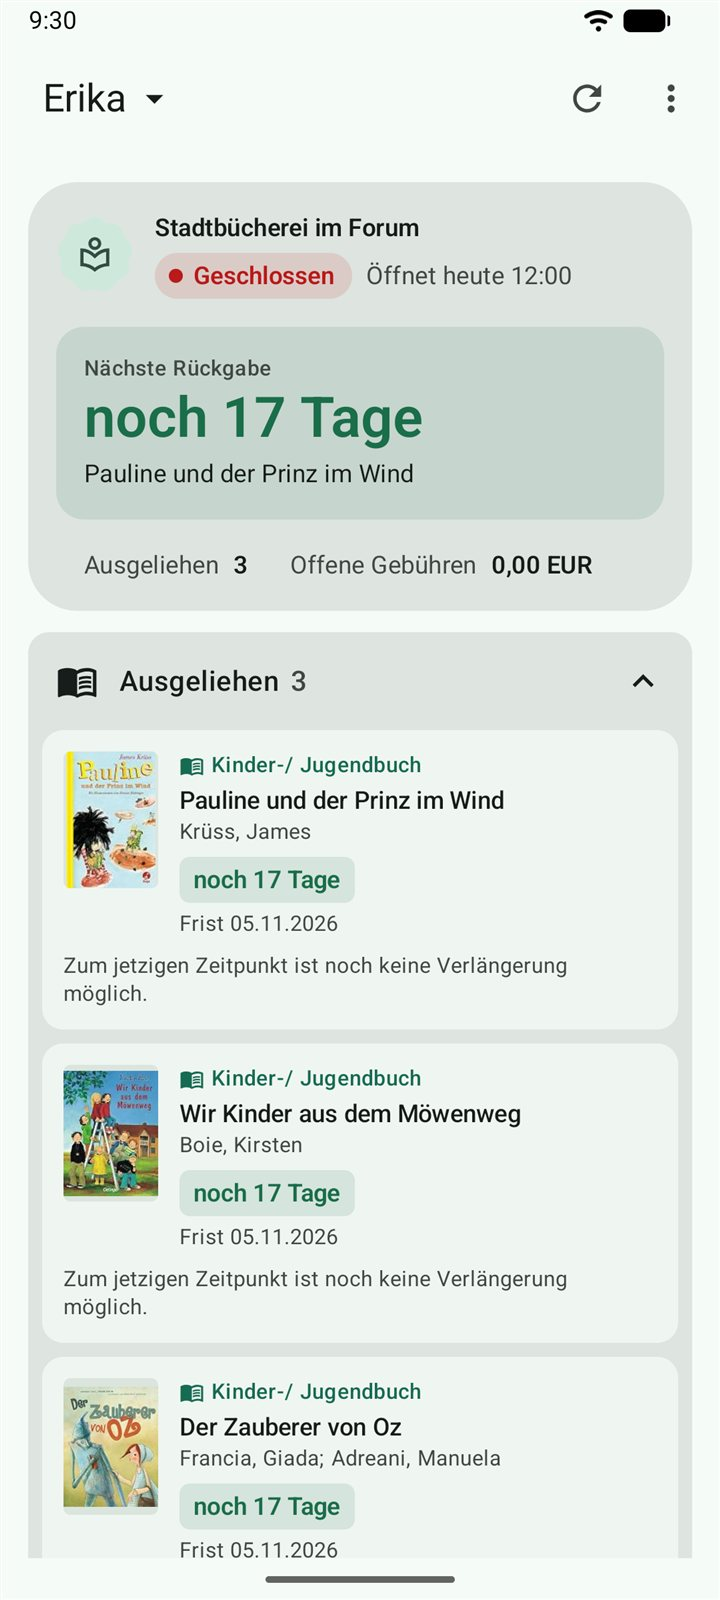
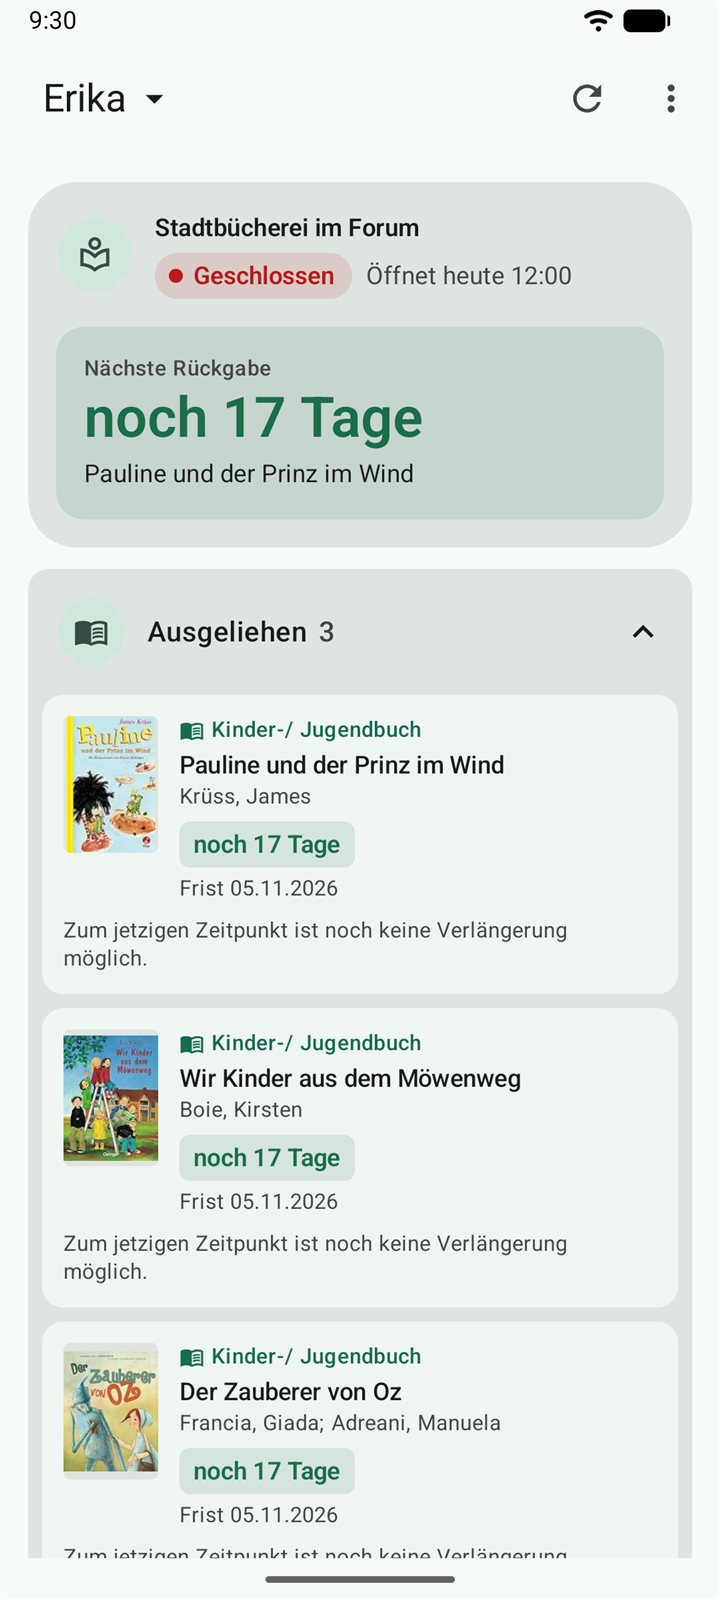
Release 1.10.2
- Dunkles Design kontrastreicher
- Uebersicht ohne Infozeile, Ausweis-Hinweis unter der naechsten Rueckgabe
- Kartensymbole groesser in Expressive-Form
- Platzhalter fuer Medien ohne Cover (z.B. Tonies)
- README-Screenshots aktualisiert (anonymisierte Testdaten)

diff --git a/CHANGELOG.md b/CHANGELOG.md
@@ -7,6 +7,21 @@ Versionen nur zwei Stellen, ab 1.8.1 immer drei.
 
 ## [Unreleased]
 
+## [1.10.2] - 2026-10-19
+
+### Geändert
+- Dunkles Design (ohne dynamische Farben) kontrastreicher: fast schwarzer
+  Hintergrund, hellere Schrift und Akzente.
+- Übersicht: „Ausgeliehen“ und „Offene Gebühren“ entfallen – beides steht in
+  den Karten darunter. Der Hinweis zum Ablauf des Ausweises steht unter der
+  nächsten Rückgabe, mit Symbol im selben Stil wie die Bücherei.
+- Die Symbole der Karten sind größer und sitzen in einer runden
+  Expressive-Form.
+
+### Behoben
+- Medien ohne Cover (z.B. Tonies, die keine ISBN haben) zeigen statt eines
+  leeren grauen Kastens das Symbol ihrer Medienart.
+
 ## [1.10.1] - 2026-10-19
 
 ### Neu
@@ -137,7 +152,8 @@ Erste veröffentlichte Version.
 - Mehrere Ausweise mit Konto-Umschalter.
 - Erinnerungen vor Fristende und Warnung vor Ausweisablauf.
 
-[Unreleased]: https://github.com/klggr81/Stadtbuecherei-GL-App/compare/v1.10.1...HEAD
+[Unreleased]: https://github.com/klggr81/Stadtbuecherei-GL-App/compare/v1.10.2...HEAD
+[1.10.2]: https://github.com/klggr81/Stadtbuecherei-GL-App/compare/v1.10.1...v1.10.2
 [1.10.1]: https://github.com/klggr81/Stadtbuecherei-GL-App/compare/v1.10.0...v1.10.1
 [1.10.0]: https://github.com/klggr81/Stadtbuecherei-GL-App/compare/v1.9.1...v1.10.0
 [1.9.1]: https://github.com/klggr81/Stadtbuecherei-GL-App/compare/v1.9.0...v1.9.1

diff --git a/README.md b/README.md
@@ -61,7 +61,7 @@ Versionen sollten funktionieren, sind aber nicht ausprobiert.
 
 | Funktion | Details |
 |---|---|
-| **Ausgeliehene Medien** | Titel, Verfasser, Medienart (Buch, Bilderbuch, Tonie, Spiel …), Zweigstelle, Cover. Antippen öffnet die Detailseite im Browser |
+| **Ausgeliehene Medien** | Titel, Verfasser, Medienart (Buch, Bilderbuch, Tonie, Spiel …), Zweigstelle, Cover (ohne Cover das Symbol der Medienart). Antippen öffnet die Detailseite im Browser |
 | **Countdown** | Farbige Ampel bis zur Rückgabe: rot überfällig, orange ≤ 2 Tage, gelb ≤ 7 Tage, grün ab 8 Tagen |
 | **Verlängern** | Einzeln oder alle verlängerbaren Medien auf einmal. Nicht verlängerbare Medien zeigen den Grund („Die maximale Anzahl der Verlängerungen ist erreicht.") |
 | **Gebühren** | Offene Gebühren, Einzahlungen, Saldo, Einzelposten |
